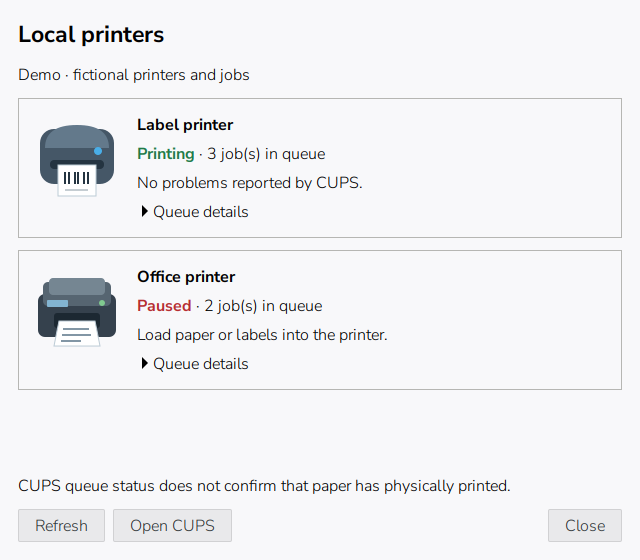
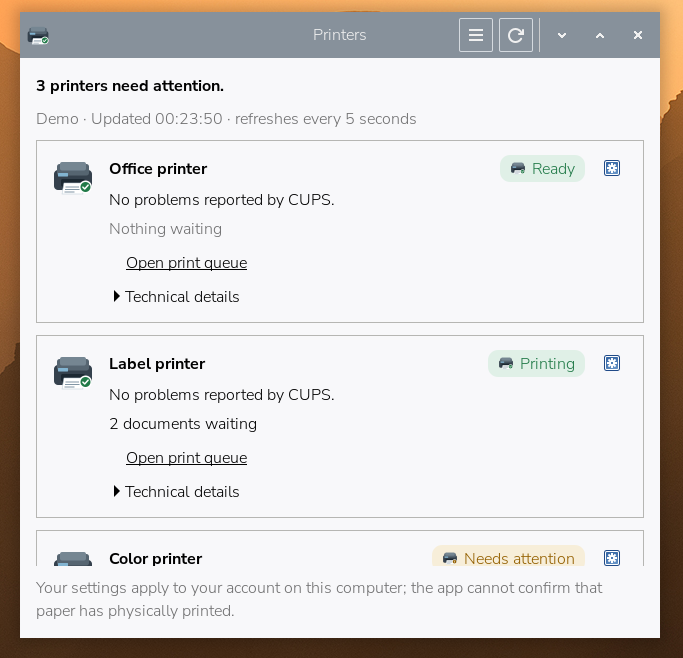
docs: refresh the screenshot to the redesigned window in demo mode

diff --git a/README.md b/README.md
@@ -13,10 +13,9 @@ of a print queue. The gear button on each card changes only your own printing
 defaults, such as the paper size. Anything system-wide stays with the system
 printer settings tool.
 
-![CUPS Tray Icon showing two fictional printers, a print queue and a paper warning](docs/screenshot.png)
+![CUPS Tray Icon in demo mode: cards for a ready printer, a printing printer with waiting documents and a printer that needs attention](docs/screenshot.png)
 
-<!-- The screenshot shows the previous layout. Regenerate it on a Linux desktop:
-     run `cups_tray_icon.py --demo` and capture the window. -->
+<!-- Regenerate on a Linux desktop: run `cups_tray_icon.py --demo` and capture the window. -->
 
 *The window in demo mode. Printer names, documents and errors are fictional.*
 
